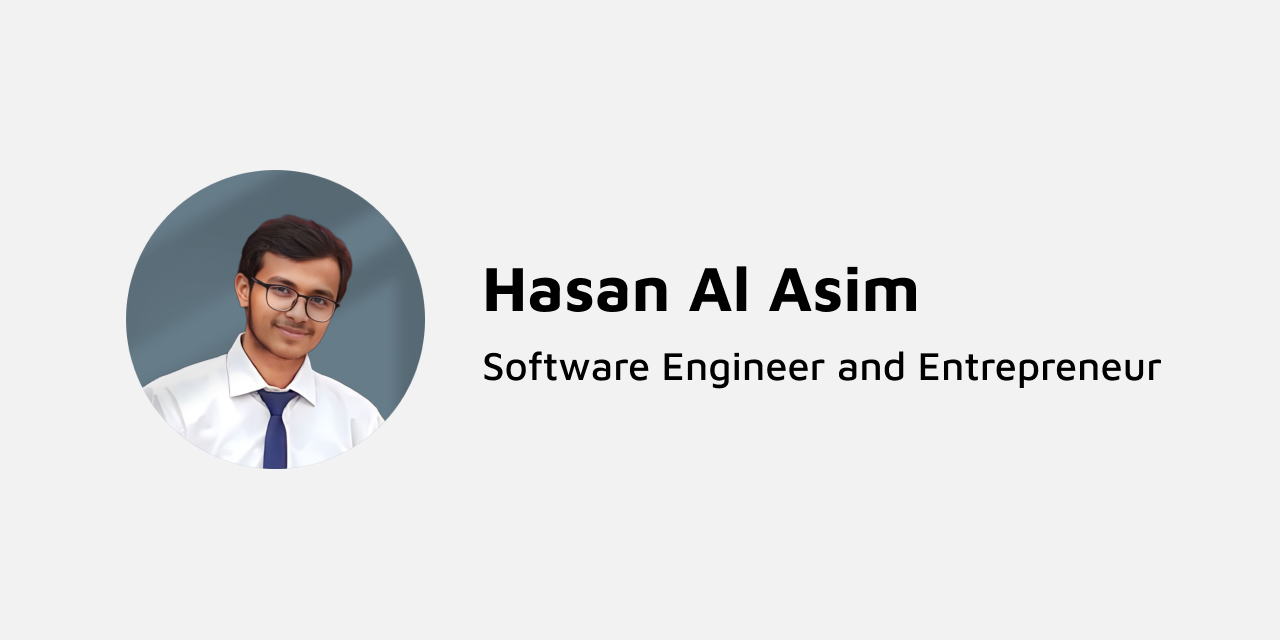
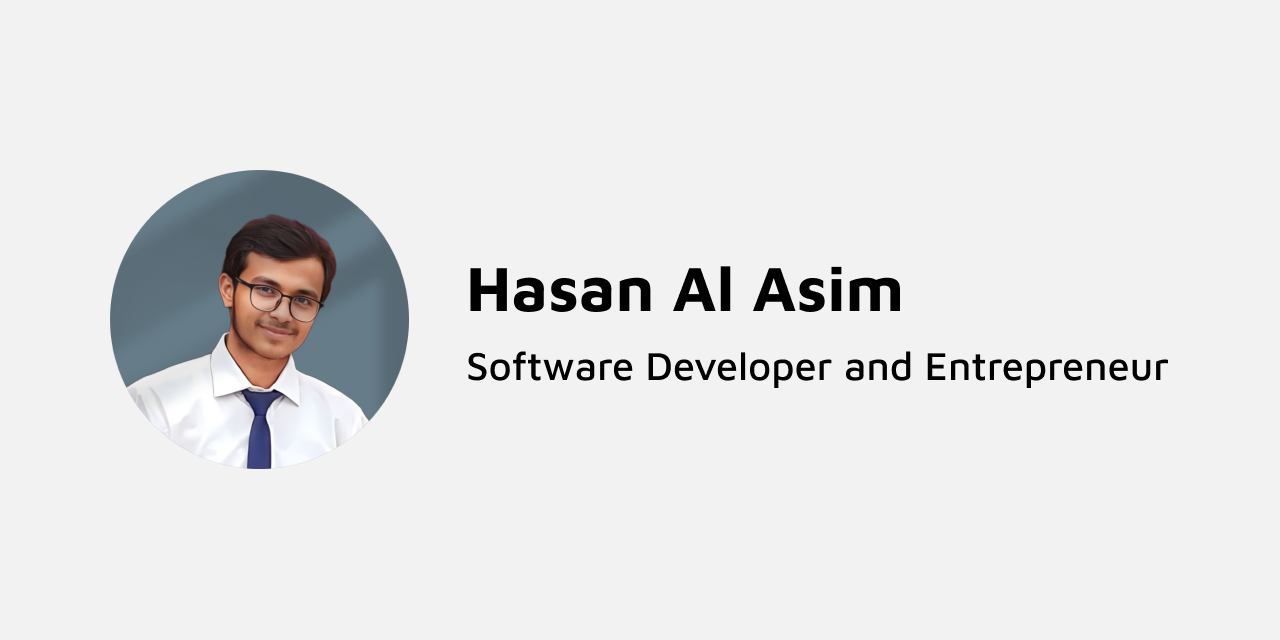
title fix

diff --git a/src/config.ts b/src/config.ts
@@ -1,5 +1,5 @@
 // Place any global data in this file.
 // You can import this data from anywhere in your site by using the `import` keyword.
 
-export const SITE_TITLE = 'Hasan Al Asim | Software Engineer and Entrepreneur';
-export const SITE_DESCRIPTION = 'I am a software engineer and entrepreneur. A seasoned professional with over three years of diverse experience in software development.';
+export const SITE_TITLE = 'Hasan Al Asim | Software Developer and Entrepreneur';
+export const SITE_DESCRIPTION = 'I am a Software Developer and Entrepreneur. A seasoned professional with over three years of diverse experience in software development.';
